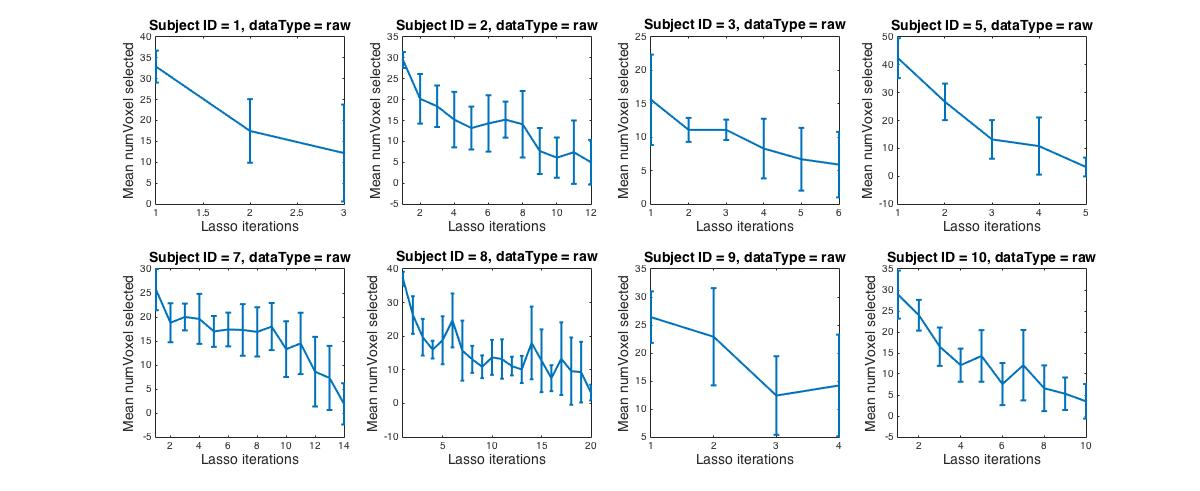
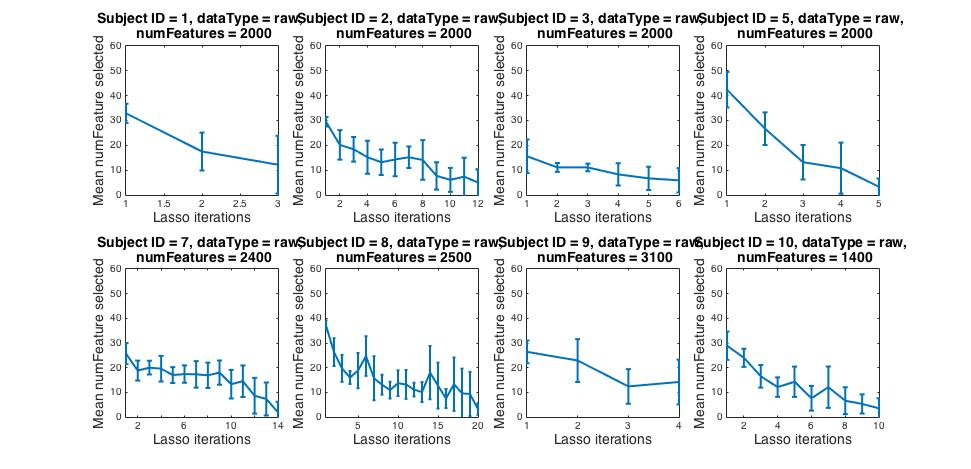
plots percentage of features selected, unify y axis

diff --git a/src/iterLasso_plot.m b/src/iterLasso_plot.m
@@ -1,8 +1,13 @@
 %% Do some quick analysis for the Manchster ECoG data
 % a single iteration of logistic regression with lasso or ridge penalty
 clear variables; clc; clf;
-
+% path parameters
+BOXCAR = '010';
+WIND_START = '0200';
+WIND_SIZE = '1000';
 % specify path information
+DIR.DATA = strcat('/Users/Qihong/Dropbox/github/ECOG_Manchester/data/ECoG/data/avg/BoxCar/', ...
+    BOXCAR, '/WindowStart/', WIND_START, '/WindowSize/', WIND_SIZE, '/');
 % point to the output directory
 DIR.OUT = '/Users/Qihong/Dropbox/github/ECOG_Manchester/results/allTimePts/';
 
@@ -17,6 +22,13 @@ alpha = .05;
 numCVB = 10;
 p.FS = 14;
 p.LW = 2;
+
+
+
+% get filenames and IDs for all subjects
+[filename, subjIDs] = getFileNames(DIR.DATA, DATA_TYPE);
+numSubjs = length(subjIDs); % number of subjects
+load(strcat(DIR.DATA,filename.metadata))
 
 load(fullfile(DIR.OUT, resultsFileName))
 
@@ -33,6 +45,7 @@ for s = 1 : length(results)
         end
     end
     
+    % accuracy
     figure(1)
     subplot(2, ceil(length(results)/2), s)
     se = tinv(1 - alpha/2, numCVB - 1) * std(accuracies,0,2) / sqrt(numCVB);
@@ -44,15 +57,32 @@ for s = 1 : length(results)
     xlim([1, results{s}.iterNum])
     ylim([.5 1])
     
+    % number of feature selected
     figure(2)
     subplot(2, ceil(length(results)/2), s)
     se = tinv(1 - alpha/2, numCVB - 1) * std(numVoxSelected,0,2) / sqrt(numCVB);
     errorbar(1:results{s}.iterNum, mean(numVoxSelected,2),se, 'linewidth', p.LW);
-    title_text = sprintf('Subject ID = %d, dataType = %s', results{s}.subjID, DATA_TYPE);
+    title_text = sprintf('Subject ID = %d, dataType = %s, \n numFeatures = %d', ...
+        results{s}.subjID, DATA_TYPE, metadata(results{s}.subjID).ncol);
     title(title_text, 'fontsize', p.FS)
-    ylabel('Mean numVoxel selected', 'fontsize', p.FS)
+    ylabel('Mean numFeature selected', 'fontsize', p.FS)
     xlabel('Lasso iterations', 'fontsize', p.FS)
     xlim([1, results{s}.iterNum])
+    ylim([0, 60])
+    
+    % percent of feature selected  
+    figure(3)
+    percentVoxSel = 100 * numVoxSelected / metadata(results{s}.subjID).ncol;
+    subplot(2, ceil(length(results)/2), s)
+    se = tinv(1 - alpha/2, numCVB - 1) * std(percentVoxSel,0,2) / sqrt(numCVB);
+    errorbar(1:results{s}.iterNum, mean(percentVoxSel,2),se, 'linewidth', p.LW);
+    title_text = sprintf('Subject ID = %d, dataType = %s, \n numFeatures = %d', ...
+        results{s}.subjID, DATA_TYPE, metadata(results{s}.subjID).ncol);
+    title(title_text, 'fontsize', p.FS)
+    ylabel('% feature selected', 'fontsize', p.FS)
+    xlabel('Lasso iterations', 'fontsize', p.FS)
+    xlim([1, results{s}.iterNum])
+    ylim([0, 3])
     
 end
 
